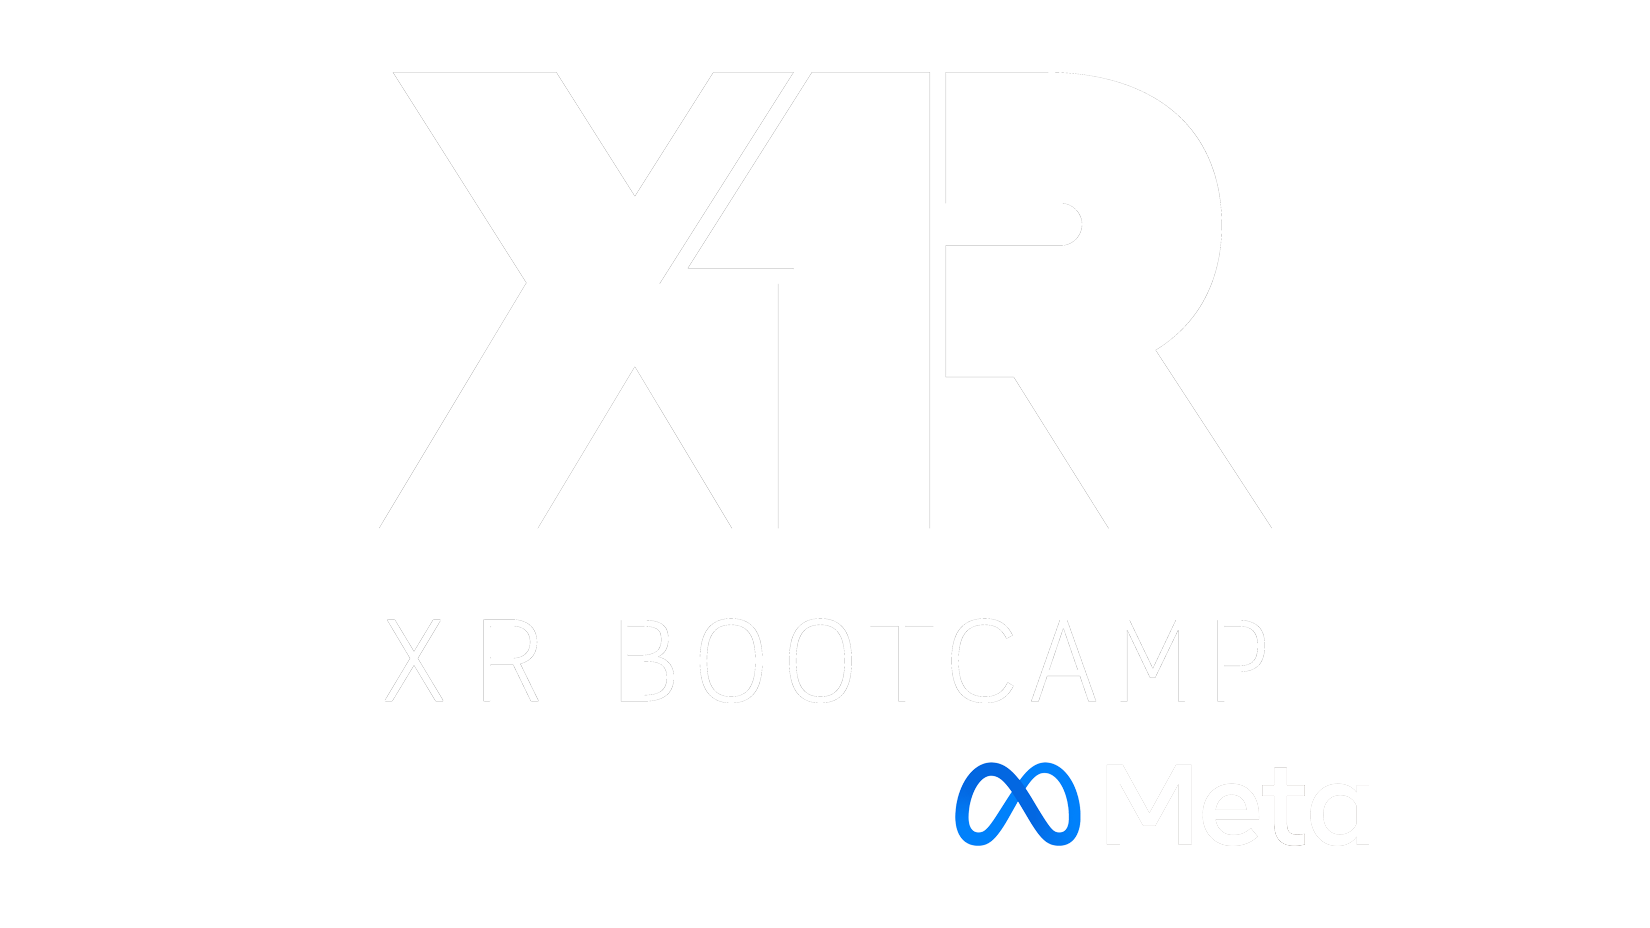
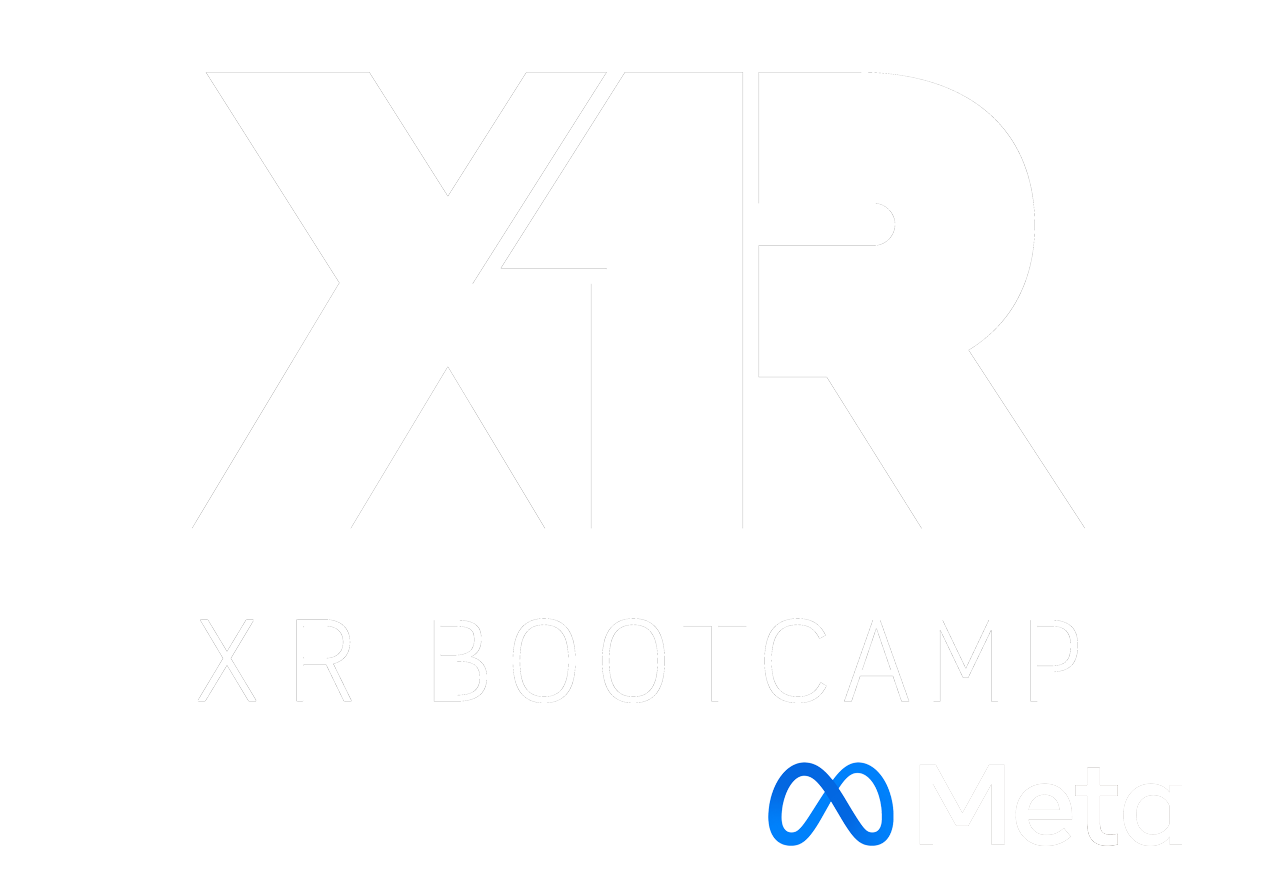
update sponsors

Changed region(s): [[0.5536, 0.8247, 0.7074, 0.9774]]

diff --git a/app/sponsors/sponsors.ts b/app/sponsors/sponsors.ts
@@ -15,8 +15,8 @@ export const sponsors: SponsorTier[] = [
 			{ name: "AWE", imgsrc: "/sponsors/awe.svg", size: 150 },
 			{ name: "ByteDance", imgsrc: "/sponsors/ByteDance.png", size: 105 },
 			{ name: "OpenBCI", imgsrc: "/sponsors/OpenBCI.png", size: 130 },
-			{ name: "XR Bootcamp by Meta", imgsrc: "/sponsors/XRMeta.png", size: 250},
-			// { name: "Meta", imgsrc: "/sponsors/meta.png" },
+			{ name: "Meta", imgsrc: "/sponsors/meta.png" },
+			{ name: "XR Bootcamp by Meta", imgsrc: "/sponsors/XRMeta.png", size: 200},
 			// { name: "XR Bootcamp", imgsrc: "/sponsors/XR_Bootcamp.png", size: 160 },
 			// { name: "Snap AR", imgsrc: "/sponsors/SnapAR.png" },
 		],
